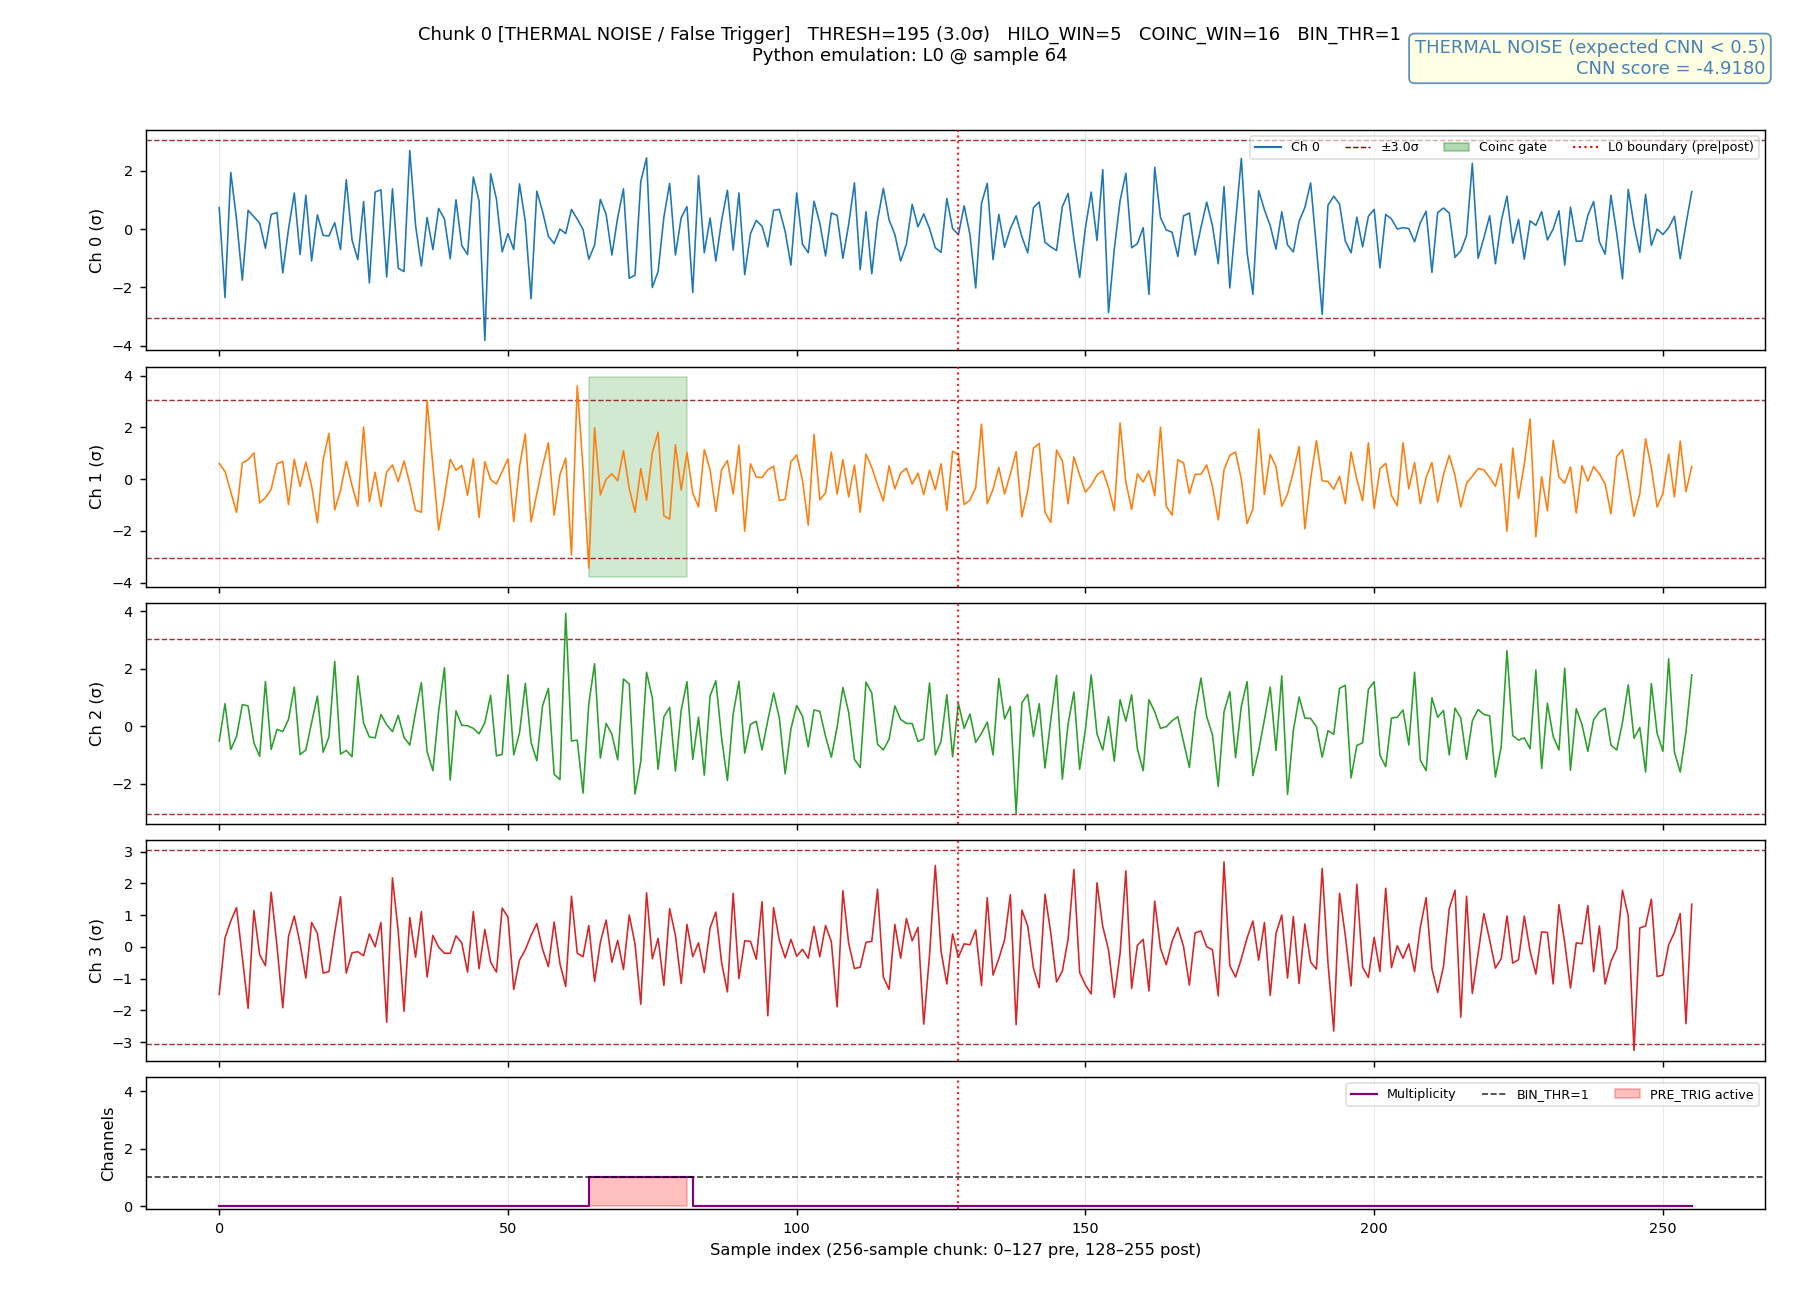
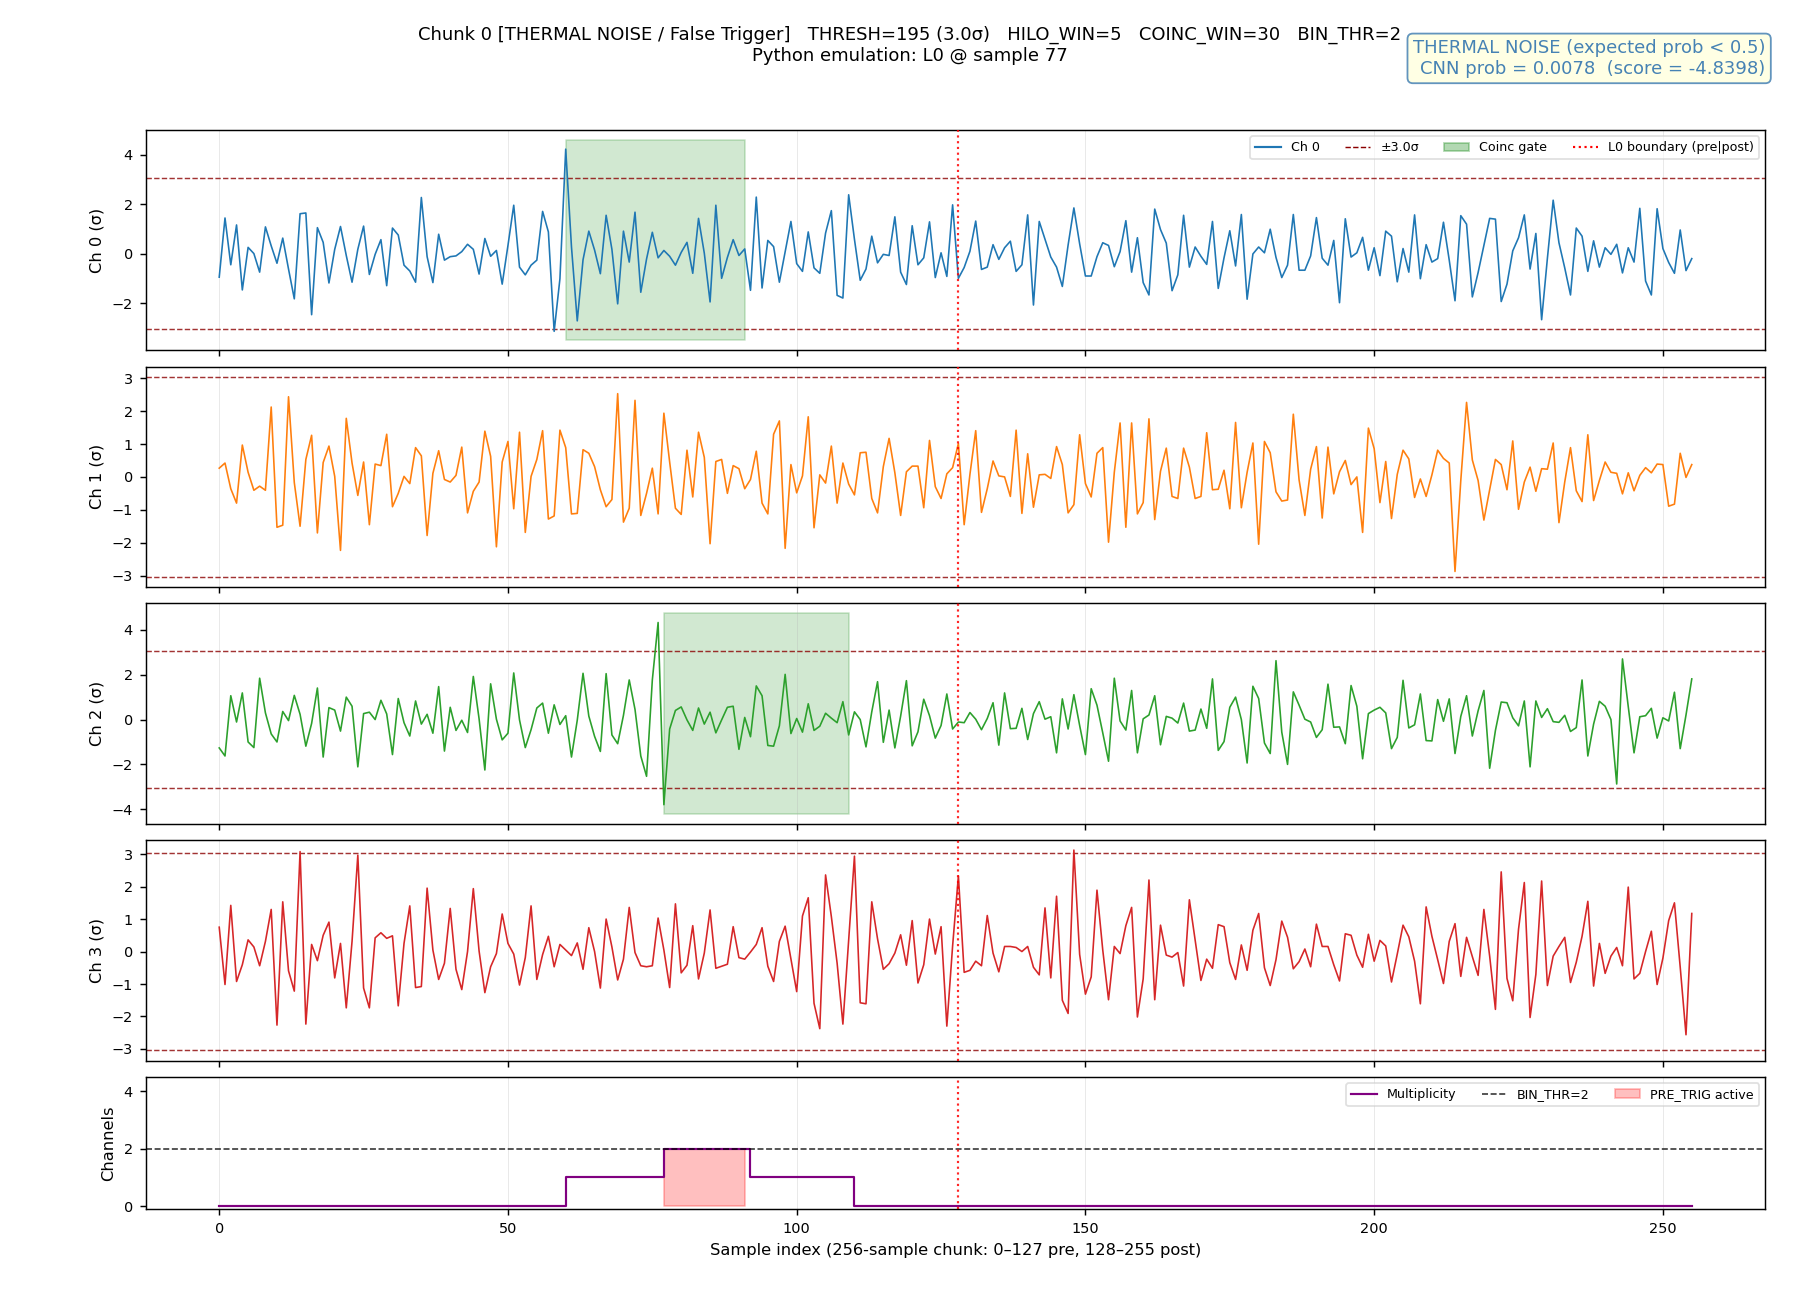
upgrade simulation for new version HiLo; update the plot from score -> prob

diff --git a/scripts/plot_thermal_results.py b/scripts/plot_thermal_results.py
@@ -30,6 +30,7 @@ Usage:
 """
 
 import argparse
+import math
 import pathlib
 
 import numpy as np
@@ -51,8 +52,8 @@ def emulate_hilo(data: np.ndarray,
                  coinc_window: int,
                  bin_thr: int):
     N = len(data)
-    hilo_window  = min(int(hilo_window),  16)
-    coinc_window = min(int(coinc_window), 16)   # clamped to N_SAMPLES=16
+    hilo_window  = min(int(hilo_window), 16)
+    coinc_window = min(int(coinc_window), 32)   # clamped to hardware max of 32
 
     gate4 = np.zeros((N, 4), dtype=bool)
     for ch in range(4):
@@ -82,10 +83,15 @@ def emulate_hilo(data: np.ndarray,
 # Per-Chunk Plot
 # ---------------------------------------------------------------------------
 
+def sigmoid(x: float) -> float:
+    return 1.0 / (1.0 + math.exp(-x))
+
+
 def plot_chunk(chunk_id: int,
                data: np.ndarray,
                cnn_fired: bool,
                cnn_score: float,
+               cnn_prob: float,
                thresh: int,
                hilo_window: int,
                coinc_window: int,
@@ -164,9 +170,9 @@ def plot_chunk(chunk_id: int,
     ax_m.grid(axis="x", lw=0.3, alpha=0.5)
 
     # ---- CNN annotation ----
-    score_str  = (f"CNN score = {cnn_score:.4f}"
+    score_str  = (f"CNN prob = {cnn_prob:.4f}  (score = {cnn_score:.4f})"
                   if cnn_fired else "CNN: no output (timeout)")
-    result_str = "THERMAL NOISE (expected CNN < 0.5)"
+    result_str = "THERMAL NOISE (expected prob < 0.5)"
     result_col = "steelblue"
 
     fig.text(0.97, 0.97,
@@ -206,8 +212,8 @@ def main():
     parser.add_argument("--thresh",       type=int,   default=192,
                         help="ADC counts threshold (default: 192 = 3σ×64)")
     parser.add_argument("--hilo-window",  type=int,   default=5)
-    parser.add_argument("--coinc-window", type=int,   default=16)
-    parser.add_argument("--bin-thr",      type=int,   default=1)
+    parser.add_argument("--coinc-window", type=int,   default=30)
+    parser.add_argument("--bin-thr",      type=int,   default=2)
     parser.add_argument("--sigma-scale",  type=float, default=64.0)
     args = parser.parse_args()
 
@@ -261,6 +267,7 @@ def main():
 
         cnn_fired = bool(int(row["cnn_fired"]))
         cnn_score = float(row["cnn_score_float"])
+        cnn_prob  = sigmoid(cnn_score) if cnn_fired else 0.0
 
         out_path = plot_dir / f"chunk_{chunk_id}_thermal.png"
         print(f"\nPlotting chunk {chunk_id} ...")
@@ -269,6 +276,7 @@ def main():
             data         = data,
             cnn_fired    = cnn_fired,
             cnn_score    = cnn_score,
+            cnn_prob     = cnn_prob,
             thresh       = args.thresh,
             hilo_window  = args.hilo_window,
             coinc_window = args.coinc_window,
@@ -288,8 +296,9 @@ def main():
     for _, r in results_df.iterrows():
         if int(r["cnn_fired"]):
             score = float(r["cnn_score_float"])
-            verdict = "<0.5 — correct (noise)" if score < 0.5 else ">0.5 — unexpected"
-            print(f"  chunk {int(r['chunk_id'])}: score={score:.4f}  ({verdict})")
+            prob  = sigmoid(score)
+            verdict = "<0.5 — correct (noise)" if prob < 0.5 else "≥0.5 — unexpected"
+            print(f"  chunk {int(r['chunk_id'])}: prob={prob:.4f}  ({verdict})")
         else:
             print(f"  chunk {int(r['chunk_id'])}: no CNN output (timeout)")
     print(f"{'='*50}\n")
